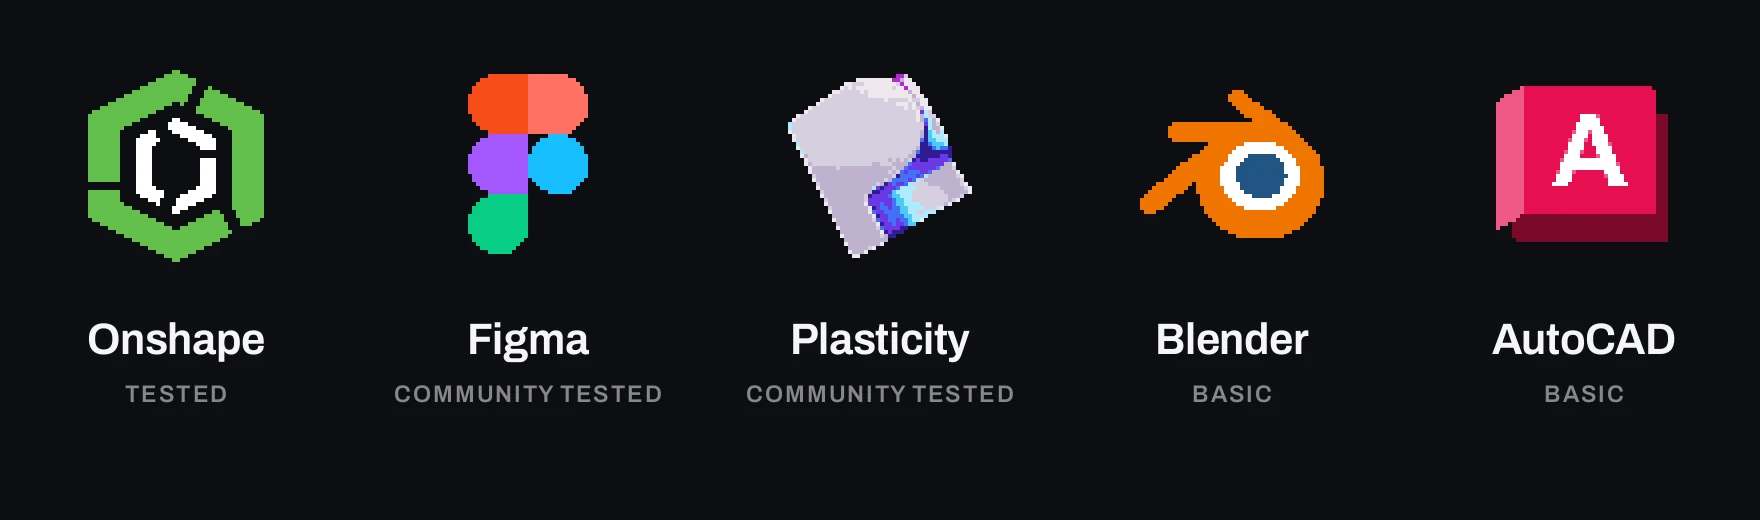
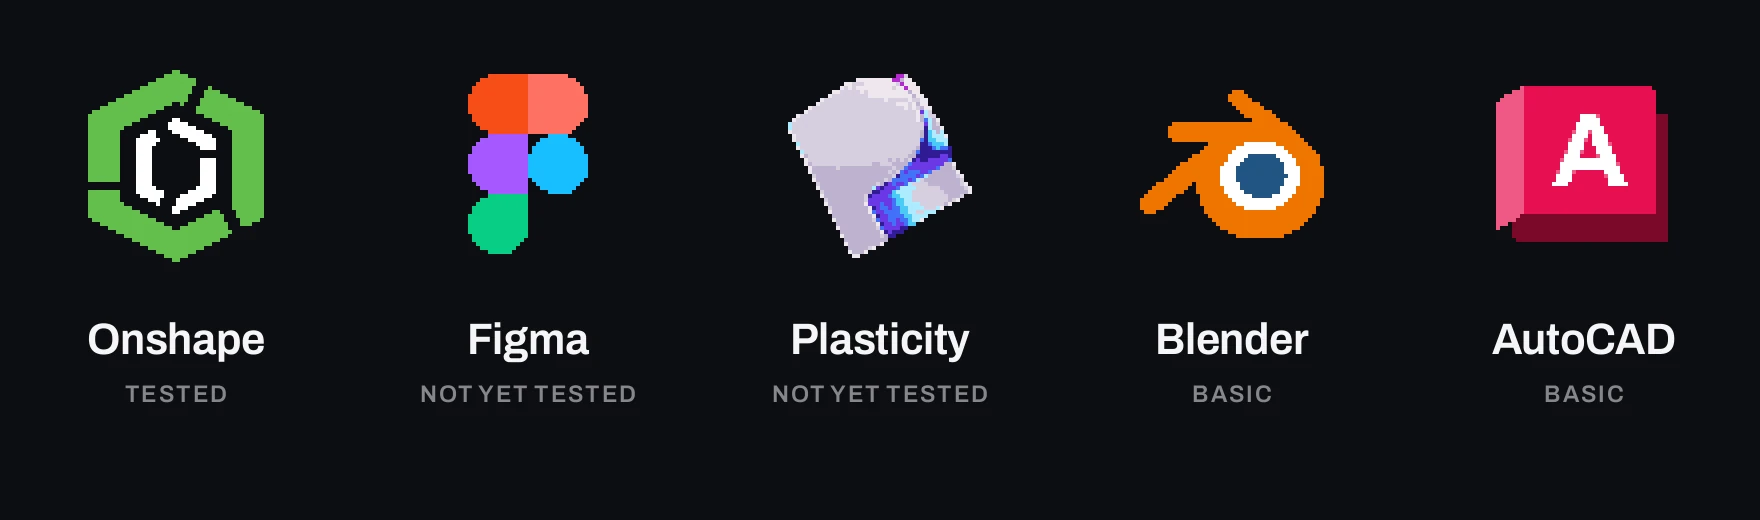
Docs: Not yet tested badges, Chrome-only Onshape testing, Play next kept neutral
- Figma and Plasticity: "Not yet tested" (owner ruling; shortcuts mapped
  from Karl's Mac profiles and the apps' Windows docs), README strip too.
- Onshape: tested in Chrome; Edge, Brave, Vivaldi, Opera recognised, untried.
- Apps: shells and terminals refused as rules; a dropped profile shows a
  text screen until re-sent.
- Play next: no green flash promised until DD-BUG-053 is fixed; the ring
  pictures show the hold fill / Shuffle instead (restore after the fix).

Changed region(s): [[0.4062, 0.7385, 0.5938, 0.8], [0.2188, 0.7385, 0.375, 0.8]]

diff --git a/tools/readme-media/gallery_scenes.py b/tools/readme-media/gallery_scenes.py
@@ -227,12 +227,11 @@ def led_tiles(ctx):
     snap = win0.get("buttons", [{}, {}])[1].get("color") or 0x1FB895
     tiles.append(button_moment("Snap: half wash", win0, 1, kind="ok", moment="snap", side=-1, color=snap))
     tiles.append(button_moment("Shuffle: scatter", H(30), 2, kind="ok", moment="shuffle"))   # sparks land on dark LEDs
-    # Play next as the knob does it: hold 4 on a row for a second (the ring fills, the hold matures at the twin's
-    # HOLD4_MS), the controller answers "queued" inside the landing window, the whole ring flashes green
-    # (CC_FLASH_QUEUE). A quick tap answered "queued" would fall back to the older sweep.
-    t = LedTile("Play next: green flash", _list(lst0, 0))
+    # Hold 4 (Queue / Play next): the ring fills over the second the hold takes. The landing (a green flash by
+    # design) is left out until DD-BUG-053 lands: the "queued" answer and the matured hold on the same redraw skip
+    # the green today. Restore the landing (feedback "queued" at MOMENT_AT + 1060) after the fix.
+    t = LedTile("Hold 4: the ring fills", _list(lst0, 0))
     t.at(MOMENT_AT, "kd", 3)
-    t.feedback(MOMENT_AT + 1060, _list(lst0, 0), kind="ok", moment="queued")
     t.at(MOMENT_AT + 1100, "ku", 3)
     tiles.append(t)
 
@@ -309,7 +308,7 @@ def scene_leds_moments(ctx) -> list[Path]:
 
 # The README's ring picture: six of the moments, bigger, with short captions (the full twelve stay on leds.md).
 RING_PICKS = (("86 % amber, 95 % red embers", "Volume"), ("Cover colours in a list", "Album colours"),
-              ("Like: pink bloom", "Like"), ("Snap: half wash", "Snap"), ("Play next: green flash", "Play next"),
+              ("Like: pink bloom", "Like"), ("Snap: half wash", "Snap"), ("Shuffle: scatter", "Shuffle"),
               ("Wall: the push glows", "End stop"))
 RING_SCALE = 0.9                   # 324 px rings (the full grid uses LED_SCALE 0.6)
 RING_CAPTION_H, RING_CAPTION_PX = 64, 30

diff --git a/tools/readme-media/apps_strip.py b/tools/readme-media/apps_strip.py
@@ -15,7 +15,7 @@ from pathlib import Path
 SOURCE = "app profiles (Karl Malota's icons)"
 ORDER = ("onshape", "figma", "plasticity", "blender", "autocad")
 NAMES = {"onshape": "Onshape", "figma": "Figma", "plasticity": "Plasticity", "blender": "Blender", "autocad": "AutoCAD"}
-STATUS = {"tested": "TESTED", "community": "COMMUNITY TESTED", "basic": "BASIC"}
+STATUS = {"tested": "TESTED", "community": "NOT YET TESTED", "basic": "BASIC"}   # the Settings badges (user ruling 2026-10-03)
 W, H = 1760, 520
 BG = (13, 14, 17)
 INK, QUIET = (245, 245, 247), (134, 134, 139)

diff --git a/docs/features/apps.md b/docs/features/apps.md
@@ -10,17 +10,17 @@ Desk Dial is tested on one knob (the author's). This page describes Desk Dial v2
 
 | App | Status | Picked when this is in front |
 |---|---|---|
-| Onshape | Tested | cad.onshape.com or a company workspace (`*.onshape.com`) in a browser |
-| Figma | Community tested | Figma.exe, or figma.com in a browser |
-| Plasticity | Community tested | Plasticity.exe |
+| Onshape | Tested (in Chrome) | cad.onshape.com or a company workspace (`*.onshape.com`) in a browser |
+| Figma | Not yet tested | Figma.exe, or figma.com in a browser |
+| Plasticity | Not yet tested | Plasticity.exe |
 | Blender | Basic | blender.exe |
 | AutoCAD | Basic | acad.exe |
 
 - **Tested** means checked on the author's knob.
-- **Community tested** means the profile comes from Karl's community and has not been checked on the author's knob.
+- **Not yet tested** means nobody has tried it on Windows yet: the shortcuts come from Karl's profile (made on a Mac), mapped Cmd to Ctrl and Option to Alt and checked against the app's own Windows shortcut documentation. When an owner confirms an app works, its badge becomes **Community tested**. If a command is wrong, [open an issue](https://github.com/hooterjackson/desk-dial/issues).
 - **Basic** means the knob scrolls and nothing more: Karl's profile has no commands for that app yet.
 
-Websites are recognised in Chrome, Edge, Brave, Vivaldi and Opera. Firefox is not supported.
+Websites are recognised in Chrome, Edge, Brave, Vivaldi and Opera; only Chrome has been tried. Firefox is not supported.
 
 ## Off, Manual or Auto
 
@@ -36,7 +36,7 @@ In any app, hold all four knob buttons for 1 second to go back to Home.
 
 ## The knob in an app
 
-On a knob with the current firmware, each app gets its own screen: Onshape its cube and command wheel, Figma its name and icon, Plasticity a pyramid. "LOADING..." shows for a moment while a profile is sent to the knob. A knob with older firmware shows a text screen instead.
+On a knob with the current firmware, each app gets its own screen: Onshape its cube and command wheel, Figma its name and icon, Plasticity a pyramid. "LOADING..." shows for a moment while a profile is sent to the knob; if the knob has dropped a profile from its memory, a text screen shows until it has been sent again. A knob with older firmware shows a text screen instead.
 
 When a button cannot do its job, the knob tells you why:
 
@@ -55,7 +55,7 @@ The page lists one row per app: its icon, its name, its status badge, Off / Manu
 
 The intro on the page reads: "Each app profile sets what the knob and its buttons do in that app. Manual: turn it on from the tray’s App mode menu. Auto: on while the app is in front. Hold all four knob buttons for 1 s for Home."
 
-**Rules…** opens "Rules · {app}", with two lists, **Programs** and **Websites**, and the built-in rules underneath. Add a program by its file name (such as `Figma.exe`) or a website by its host (such as `figma.com` or `*.figma.com`). If you paste a whole web address, Desk Dial keeps only the host and says "Kept the host only: {host}. Desk Dial never stores a web address."
+**Rules…** opens "Rules · {app}", with two lists, **Programs** and **Websites**, and the built-in rules underneath. Add a program by its file name (such as `Figma.exe`) or a website by its host (such as `figma.com` or `*.figma.com`). If you paste a whole web address, Desk Dial keeps only the host and says "Kept the host only: {host}. Desk Dial never stores a web address." A rule can never point at a command shell, a terminal or Windows' own shell; those are refused.
 
 The Knob page now only points here: "Onshape and other apps: Settings › Apps."
 
@@ -80,6 +80,6 @@ To write or change a profile, see the author guide in [profiles/README.md](../..
 
 ## Known limits
 
-- Figma and Plasticity are community tested, and Blender and AutoCAD are basic (scroll only), as above.
+- Figma and Plasticity are not yet tested, and Blender and AutoCAD are basic (scroll only), as above.
 
 App icons: pixel art by Karl Malota ([katbinaris](https://github.com/katbinaris)), from his Nano_D app profiles.

diff --git a/README.md b/README.md
@@ -84,7 +84,7 @@
 
 <p align="center"><a href="docs/features/onshape.md"><picture><source srcset="docs/media/onshape-knob.webp" type="image/webp"><img src="docs/media/onshape-knob.gif" alt="The knob shows a wireframe cube that turns with the shaft; holding a button and turning orbits the model; a long press on button 3 opens a ring of command cards" width="475"></picture></a></p>
 
-<p align="center"><sub>Chrome or Edge · turn it on in Settings › Apps</sub> &nbsp;·&nbsp; <a href="docs/features/onshape.md">Everything Onshape does ›</a></p>
+<p align="center"><sub>Tested in Chrome · turn it on in Settings › Apps</sub> &nbsp;·&nbsp; <a href="docs/features/onshape.md">Everything Onshape does ›</a></p>
 
 <a name="apps"></a>
 <p align="center"><b>More apps</b></p>
@@ -92,9 +92,9 @@
 
 <p align="center">Karl Malota's app profiles give each program its own knob: what turning does, what the buttons do, and its own screen. Set an app to Auto and Desk Dial switches to it whenever the app is in front.</p>
 
-<p align="center"><a href="docs/features/apps.md"><picture><source srcset="docs/media/apps-strip.webp" type="image/webp"><img src="docs/media/apps-strip.png" alt="Karl Malota's pixel-art app icons: Onshape, tested; Figma and Plasticity, community tested; Blender and AutoCAD, basic" width="880"></picture></a></p>
+<p align="center"><a href="docs/features/apps.md"><picture><source srcset="docs/media/apps-strip.webp" type="image/webp"><img src="docs/media/apps-strip.png" alt="Karl Malota's pixel-art app icons: Onshape, tested; Figma and Plasticity, not yet tested; Blender and AutoCAD, basic" width="880"></picture></a></p>
 
-<p align="center"><sub>Figma and Plasticity community tested · Blender and AutoCAD scroll only · each Off until you choose Manual or Auto in Settings › Apps</sub> &nbsp;·&nbsp; <a href="docs/features/apps.md">Every app, and how to add one ›</a></p>
+<p align="center"><sub>Figma and Plasticity not yet tested · Blender and AutoCAD scroll only · each Off until you choose Manual or Auto in Settings › Apps</sub> &nbsp;·&nbsp; <a href="docs/features/apps.md">Every app, and how to add one ›</a></p>
 
 <br>
 
@@ -128,7 +128,7 @@
 
 <p align="center">Sixty LEDs draw the volume, take on each album's colour and bloom when you press Like. At rest they settle to one steady warm glow.</p>
 
-<p align="center"><a href="docs/features/leds.md"><picture><source srcset="docs/media/ring-moments.webp" type="image/webp"><img src="docs/media/ring-moments.gif" alt="Six of the knob's LED rings, each playing one moment: the volume arc warming to amber and red, album colours in a list, a pink bloom for Like, a half-ring wash for Snap, the ring lighting up as Play next lands, and a glow at the end stop" width="880"></picture></a></p>
+<p align="center"><a href="docs/features/leds.md"><picture><source srcset="docs/media/ring-moments.webp" type="image/webp"><img src="docs/media/ring-moments.gif" alt="Six of the knob's LED rings, each playing one moment: the volume arc warming to amber and red, album colours in a list, a pink bloom for Like, a half-ring wash for Snap, a scatter for Shuffle, and a glow at the end stop" width="880"></picture></a></p>
 
 <p align="center"><a href="docs/features/leds.md">Every moment, and the screen's motion ›</a></p>
 

diff --git a/docs/faq.md b/docs/faq.md
@@ -16,7 +16,7 @@ Without any music service set up, the knob still does three things: it switches 
 
 ### Which apps besides Onshape?
 
-Figma and Plasticity (community-tested profiles), and Blender and AutoCAD (basic: the knob scrolls only), from Karl Malota's Nano_D app profiles. Each is Off until you set it to Manual or Auto in Settings › Apps, and you can import more. See [Apps](features/apps.md).
+Figma and Plasticity (not yet tested: their shortcuts come from Karl's profiles, mapped to Windows), and Blender and AutoCAD (basic: the knob scrolls only), from Karl Malota's Nano_D app profiles. Each is Off until you set it to Manual or Auto in Settings › Apps, and you can import more. See [Apps](features/apps.md).
 
 ### Does it run on a Mac or on Linux?
 
@@ -96,7 +96,7 @@ The knob drives every light in the chosen area, including lights you add later.
 ### Buttons do nothing in Onshape
 
 - In Settings › Apps, **Onshape** must be Manual or Auto (Off unless you used it before). With Manual, switch it on from the tray's **App mode** menu.
-- Onshape must be open in **Chrome or Edge** (Brave, Vivaldi and Opera are recognised too). Firefox is not.
+- Onshape must be open in a Chromium browser: tested in **Chrome**; Edge, Brave, Vivaldi and Opera are recognised, not yet tried. Firefox is not supported.
 - The knob shows **"Point at the model"** when your mouse pointer is not over the Onshape page in the front window. Move the pointer onto the model and try again. The toolbar, the tab strip and the bookmarks bar do not count.
 - A browser running as administrator does not accept input from a normal program. Start the browser normally.
 
@@ -126,6 +126,6 @@ Never attach anything from `data\`, `backups\` or the `credentials.bin` file. Th
 - Exactly one knob per PC.
 - The offline Windows-volume mode of the firmware has not yet been tested on real hardware.
 - Onshape and the other apps: Chromium browsers only, not Firefox. Shortcuts follow your keyboard layout ("Not on this keyboard" when a key is missing); non-US layouts are not yet tried on real hardware.
-- Figma and Plasticity profiles are community tested; Blender and AutoCAD are basic (the knob scrolls only). See [Apps](features/apps.md).
+- Figma and Plasticity are not yet tested; Blender and AutoCAD are basic (the knob scrolls only). See [Apps](features/apps.md).
 - The program is unsigned; SmartScreen warns on the first start and Smart App Control may block it.
 - The Home Assistant token crosses your network unencrypted when the address starts with `http://`; Settings shows a warning under the address when it does.

diff --git a/docs/features/leds.md b/docs/features/leds.md
@@ -4,7 +4,7 @@ The knob has a ring of 60 LEDs under its rim and two LEDs under each of the four
 
 Everything here is from the current firmware (v2.0.0) and is tested on one knob (the author's).
 
-<picture><source srcset="../media/leds-moments.webp" type="image/webp"><img src="../media/leds-moments.gif" alt="The knob's LED ring playing its moments one after another: a pink bloom, a half-ring wash, a scatter of warm sparks, the whole ring flashing green as Play next lands, a warm glow at one end, a red glow at the bottom, and an arc filling while a button is held" width="480"></picture>
+<picture><source srcset="../media/leds-moments.webp" type="image/webp"><img src="../media/leds-moments.gif" alt="The knob's LED ring playing its moments one after another: a pink bloom, a half-ring wash, a scatter of warm sparks, a warm glow at one end, a red glow at the bottom, and an arc filling while a button is held" width="480"></picture>
 
 ## The steady warm rest
 
@@ -37,7 +37,7 @@ A moment is a short effect played once, on top of what the ring is showing. The 
 | Bloom | Like in Up next | a pink bloom spreads from the selected item and fades (always pink, never the cover's colour) |
 | Half wash | Snap left or right in the Windows picker | the half of the ring on that side washes in the window's colour (Colour) or warm white |
 | Scatter | Shuffle in Up next | warm sparks land one after another at scattered positions around the ring |
-| Queue landing | Queue or Play next landed (hold 4) | the ring fills while you hold, then the whole ring lights up as the hold lands; a green flash when the queue answer arrives in time |
+| Queue landing | Queue or Play next (hold 4) | the ring fills while you hold; then the knob shows "Finding songs…" and "Queued · title" |
 | Wash | Play from a list | the ring washes outward from the selected item in its cover colour; green when there is no colour |
 | Green wash | a button press on Lights or Scenes succeeded (Turn on, All off, the temperature toggle, a scene ran) | the whole ring green for 0.7 s |
 | Sweep | Skip in Tracks | a comet runs the direction you skipped |

diff --git a/docs/media/README.md b/docs/media/README.md
@@ -6,8 +6,8 @@ Rendered by `tools/readme-media/render_all.py` from fictional data (see `tools/r
 | file | bytes | dimensions | frames | fps |
 |---|---:|---|---:|---:|
 | app-icons.png | 53,728 | 1240x420 | 1 |  |
-| apps-strip.png | 10,792 | 1760x520 | 1 |  |
-| apps-strip.webp | 25,534 | 1760x520 | 1 |  |
+| apps-strip.png | 10,398 | 1760x520 | 1 |  |
+| apps-strip.webp | 24,674 | 1760x520 | 1 |  |
 | cheat-sheet-dark.png | 179,163 | 1240x1754 | 1 |  |
 | cheat-sheet.png | 177,191 | 1240x1754 | 1 |  |
 | desktop-explorer-16x9.gif | 2,838,546 | 800x450 | 72 | 9.96 |
@@ -53,8 +53,8 @@ Rendered by `tools/readme-media/render_all.py` from fictional data (see `tools/r
 | hero.gif | 2,833,055 | 864x528 | 71 | 8.88 |
 | hero.webp | 1,613,266 | 1440x880 | 157 | 19.82 |
 | knob-screens.png | 207,493 | 928x814 | 1 |  |
-| leds-moments.gif | 2,789,672 | 596x508 | 76 | 10 |
-| leds-moments.webp | 1,195,436 | 902x770 | 174 | 23.13 |
+| leds-moments.gif | 2,769,629 | 596x508 | 76 | 10 |
+| leds-moments.webp | 1,171,176 | 902x770 | 173 | 22.99 |
 | lights-brightness.gif | 1,228,482 | 475x550 | 80 | 9.98 |
 | lights-brightness.webp | 507,350 | 475x550 | 143 | 16.99 |
 | lights-power.gif | 1,873,643 | 475x550 | 97 | 11.58 |
@@ -81,8 +81,8 @@ Rendered by `tools/readme-media/render_all.py` from fictional data (see `tools/r
 | navigator.webp | 1,193,242 | 1120x630 | 185 | 13.54 |
 | onshape-knob.gif | 196,030 | 475x550 | 55 | 5.8 |
 | onshape-knob.webp | 232,202 | 475x550 | 75 | 7.73 |
-| ring-moments.gif | 2,286,445 | 684x544 | 76 | 10 |
-| ring-moments.webp | 1,156,426 | 1036x824 | 167 | 22.2 |
+| ring-moments.gif | 2,145,366 | 684x544 | 76 | 10 |
+| ring-moments.webp | 1,030,576 | 1036x824 | 163 | 21.66 |
 | settings-general.png | 17,229 | 616x890 | 1 |  |
 | settings-home-assistant.png | 26,049 | 616x1317 | 1 |  |
 | settings-knob.png | 26,291 | 616x1392 | 1 |  |

diff --git a/docs/features/music.md b/docs/features/music.md
@@ -103,9 +103,9 @@ Button 4 on Home and in Music is Play when the speaker is paused and Pause when 
 
 ## Play next by holding 4
 
-Holding button 4 for a second is the queue action throughout Music: in Recently Added and Playlists, in the full-screen list on the PC, and in Up next. The ring fills while you hold; the landing thumps, the ring lights up, and the knob confirms "Queued · Name" or "Plays next · Song".
+Holding button 4 for a second is the queue action throughout Music: in Recently Added and Playlists, in the full-screen list on the PC, and in Up next. The ring fills while you hold; the landing thumps, and the knob shows "Finding songs…", then confirms "Queued · Name" or "Plays next · Song".
 
-<picture><source srcset="../media/music-hold-queue.webp" type="image/webp"><img src="../media/music-hold-queue.gif" alt="Button 4 held on an album cover; the ring fills as a progress arc, then the whole ring lights up and the screen reads Queued with the album name." width="480"></picture>
+<picture><source srcset="../media/music-hold-queue.webp" type="image/webp"><img src="../media/music-hold-queue.gif" alt="Button 4 held on an album cover; the ring fills as a progress arc, then the screen reads Queued with the album name." width="480"></picture>
 
 Play next needs the queue to be the thing playing. When it is not, the knob says why: "AirPlay · use Play", "Radio · use Play", "Line-in · use Play", "Nothing playing · Play", or "Shuffle on · turn it off" when Sonos's own shuffle is on (Sonos would scatter the new songs).
 

diff --git a/docs/features/onshape.md b/docs/features/onshape.md
@@ -81,7 +81,7 @@ The Onshape screen on the knob is Karl Malota's design, adapted with his permiss
 
 ## Limits and known issues
 
-- **Chromium browsers only** (Chrome and Edge; Brave, Vivaldi and Opera are recognised too). Firefox is deliberately not supported: its page and tab strip share one window class, so a middle-button drag could land on a tab and close it.
+- **Chromium browsers only.** Tested in Chrome; Edge, Brave, Vivaldi and Opera are recognised, not yet tried. Firefox is deliberately not supported: its page and tab strip share one window class, so a middle-button drag could land on a tab and close it.
 - **Drags end on their own after 800 ms without a turn**, and the pointer cannot be dragged past the edge of the screen: a long orbit may stop at the screen edge and start again from where the pointer was.
 - **Hold 3 and release repeats a command.** Once the wheel has shown (after about a quarter of a second), letting go runs whatever is highlighted, which is the command you last ran in that ring. If you only wanted Undo, tap 3 quickly instead.
 - **Elevated browser untested.** If the browser runs as administrator and Desk Dial does not, Windows blocks the input.

diff --git a/docs/setup/onshape.md b/docs/setup/onshape.md
@@ -7,7 +7,7 @@ Onshape mode is tested on one knob (the author's) and one PC. It is the newest p
 ## What you need
 
 - Desk Dial v2.0.0 running on the PC, with the knob connected and showing its Home screen.
-- Onshape open in **Google Chrome or Microsoft Edge**. Brave, Vivaldi and Opera are recognised too; Firefox is not (see Limits).
+- Onshape open in **Google Chrome** (tested). Microsoft Edge, Brave, Vivaldi and Opera are recognised, not yet tried; Firefox is not supported (see Limits).
 - The knob's own screen running the current firmware (v2.0.0). The command wheel and the 3D cube only appear on a knob running it; an older knob can still zoom, orbit, tilt, pan and undo, but shows a plain text screen instead.
 
 ## Turn it on
